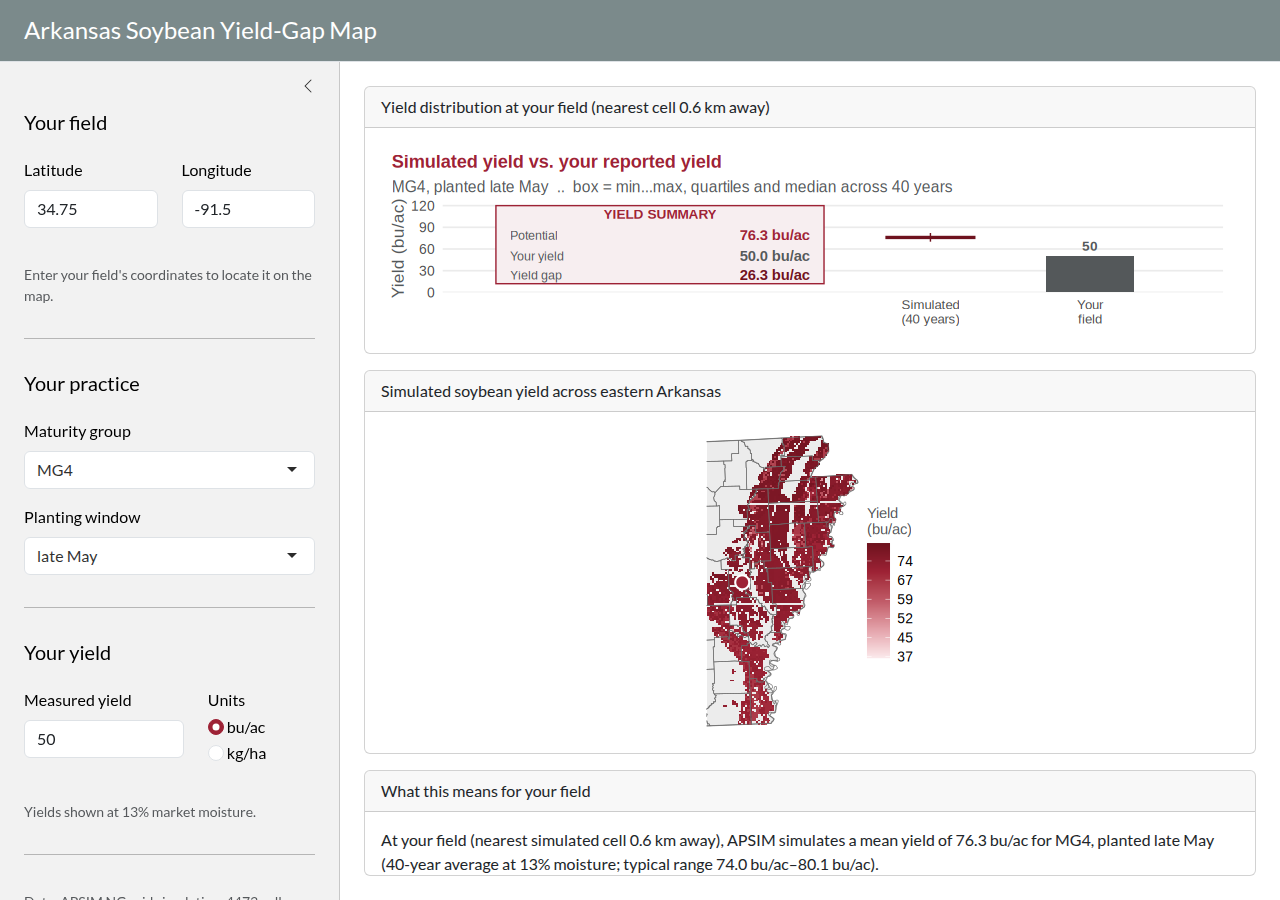
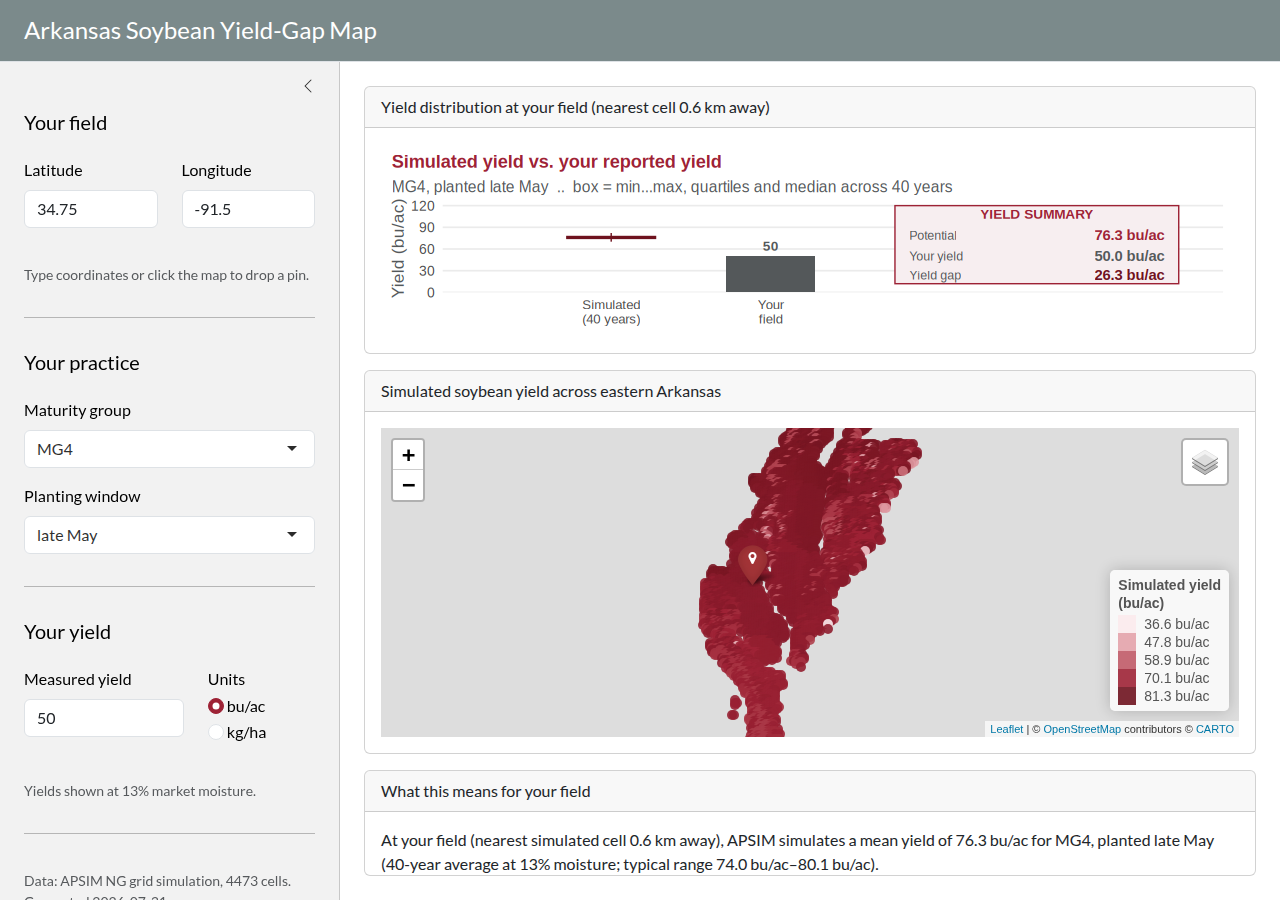
Restore interactive Leaflet map (eastern-only); move summary card right, in bu/ac
- Map: bring back the interactive Leaflet basemap (pan/zoom, map/satellite
  toggle, click-to-drop-pin, cardinal farm marker) in place of the static
  ggplot map, showing only the eastern-Arkansas cells (western points dropped).
- Boxplot: move the Potential / Your yield / Yield gap summary card to the right
  of the plot, and always show it in bushels/acre regardless of the axis unit.
- Drop the unused make_map() and re-add leaflet to the deploy workflow; refresh
  smoke test and README.

Verified: smoke tests pass, app boots (HTTP 200) and renders.

Claude-Session: https://claude.ai/code/session_0165KiGpL55aR48K4cm5rbNK

diff --git a/README.md b/README.md
@@ -108,13 +108,12 @@ A single-file Shiny app (`app/app.R`). The grower:
 The app finds the nearest simulated grid cell and shows:
 
 - A **boxplot** of the simulated 40-year yield distribution for the grower's
-  selected practice, the grower's reported yield as a **bar**, and a left-hand
-  **summary card** with the potential (simulated mean), real (reported) and
-  **yield gap**. The y-axis is fixed at **0–120 bu/ac** for easy comparison.
-- A **map** rendered like the study's manuscript figures — EPSG:5070 (Conus
-  Albers), **Arkansas state fill + county outlines**, a cardinal-red yield
-  raster, and the field marked — cropped to the eastern (soybean) half of the
-  state, exactly matching the paper's `coord_sf(xlim = c(360000, 570000))`.
+  selected practice, the grower's reported yield as a **bar**, and a right-hand
+  **summary card** (always in **bu/ac**) with the potential (simulated mean),
+  real (reported) and **yield gap**. The y-axis is fixed at **0–120 bu/ac**.
+- An **interactive Leaflet map** (pan/zoom, map/satellite basemap) of the
+  cardinal-red yield surface across the **eastern Arkansas** soybean region
+  (western cells dropped); click the map to drop a pin and locate a field.
 - A narrative summary of the simulated mean, its typical range, and the gap.
 
 The interface is styled in **University of Arkansas cardinal (#9D2235)** so the
@@ -127,8 +126,7 @@ grower's measured, market-moisture yield (1 bu/ac = 67.25 kg/ha at 13%).
 
 > This first version focuses on the **current-climate baseline**. The warming
 > (+2 °C) scenarios are still produced by the simulation and can be layered back
-> into the app when needed. The map uses only `ggplot2` (projection and
-> boundaries are pre-baked by the export), so the app needs no `sf`/`leaflet`.
+> into the app when needed.
 
 ### Run locally
 
